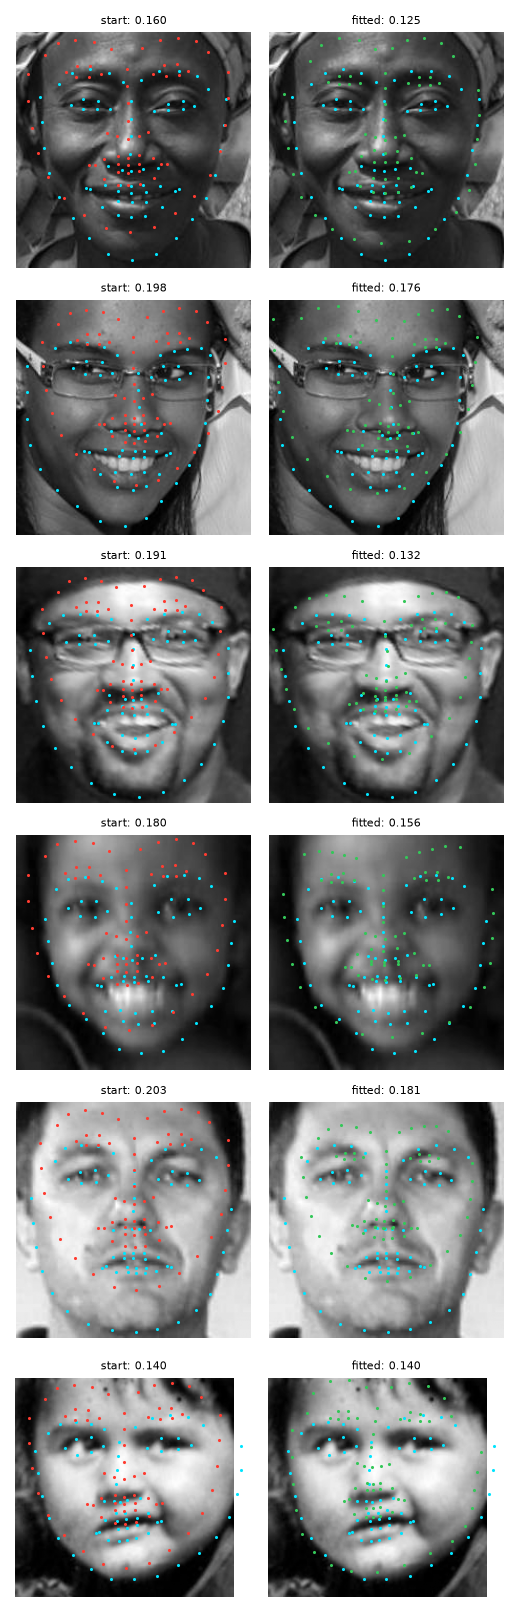
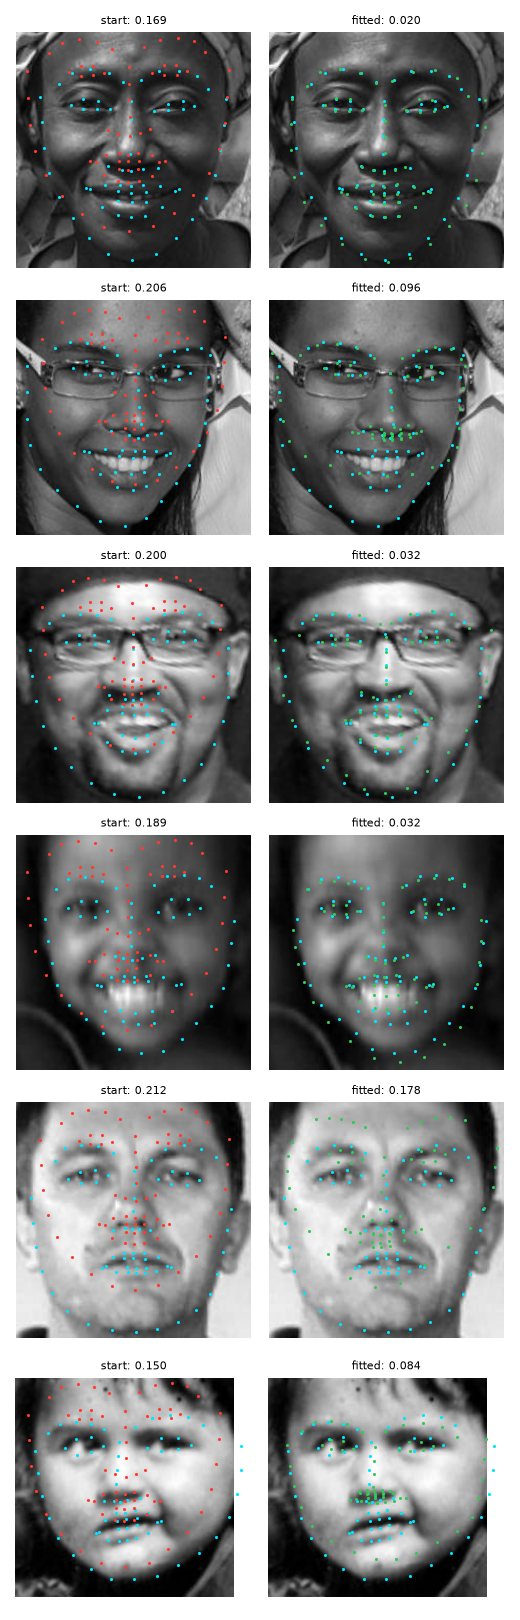
AAM, CLM and ATM examples use fast_dsift and two scales
Dense SIFT fits much better than image gradient orientations: on the 6 test faces the AAM of the Fitting page goes from
0.047 to 0.027 (from a shifted ground truth) and from 0.187 to 0.074 (from a detector box). The models are trained in batches
(batch_size) so that the 3148 images of 300-W fit in memory, and the aams-basics notebook uses two scales as the other examples.

diff --git a/docs/notebooks/menpofit/aams-basics.md b/docs/notebooks/menpofit/aams-basics.md
@@ -103,20 +103,20 @@ Deformable models, in general, and AAMs, in particular, are a one of the core co
 
 ```{code-cell}
 from menpofit.aam import HolisticAAM
-from menpo.feature import no_op
+from menpo.feature import fast_dsift
 
 # build AAM
 aam = HolisticAAM(
     training_images,
     group='PTS',
     verbose=True,
-    holistic_features=no_op, 
-    diagonal=120, 
-    scales=1
+    holistic_features=fast_dsift,
+    diagonal=120,
+    scales=(0.5, 1.0)
 )
 ```
 
-Note that here we import a feature to use from `menpo.features`. In this very basic case we actually do not want to use a feature at all - so we use the special `no_op` feature that does nothing. Features are in general required to get good fitting performance, hence the default `feature_type` is actually `igo`.
+Note that here we import a feature to use from `menpo.feature`: dense SIFT descriptors (`fast_dsift`) give much better fitting performance than raw pixels. The model has two `scales`, a coarse one and a full-resolution one, which the fitting goes through in turn (the usual choice).
 
 As first class citizens of `Menpo`, AAMs can be printed just like any other `Menpo` object (e.g. `Images` or `PointClouds)`:
 
@@ -124,7 +124,7 @@ As first class citizens of `Menpo`, AAMs can be printed just like any other `Men
 print(aam)
 ```
 
-Printing an AAM is the easiest way to retrieve its specific characteristics. For example, printing the previous AAM tells us that it was built using pixel intensities (no_op features), amongst several other things.
+Printing an AAM is the easiest way to retrieve its specific characteristics. For example, printing the previous AAM tells us that it was built using dense SIFT features (fast_dsift), amongst several other things.
 
 AAMs also define an instance method that allows us to generate novel AAM instances by applying a set of particular weights to the components of their shape and apperance models:
 

diff --git a/docs/menpofit/fitting.md b/docs/menpofit/fitting.md
@@ -32,12 +32,13 @@ For example, a Lucas-Kanade AAM fitter (`LucasKanadeAAMFitter`) assumes that you
 :tags: [remove-input]
 
 # the `aam` of the Training section, and an image to fit
-from menpo.feature import igo
+from menpo.feature import fast_dsift
 from menpofit.aam import HolisticAAM
 from menpo_docs_data import faces
 
 training_images, test_images = faces()
-aam = HolisticAAM(training_images, diagonal=150, scales=(0.5, 1.0), holistic_features=igo)
+aam = HolisticAAM(training_images, diagonal=150, scales=(0.5, 1.0), holistic_features=fast_dsift,
+                  batch_size=100)
 ```
 
 ```{code-cell} ipython3
@@ -167,9 +168,9 @@ Red is where the fit starts, green where it ends, and cyan is the ground truth:
 ```
 
 From the box of a detector (`fit_from_bb` with `menpodetect`'s OpenCV detector, whose boxes are looser than the ground truth),
-which is what you have in practice, the start is much worse and the mean error goes from {{ fitting_detector_initial }} to
-{{ fitting_detector_final }}: a model like this one moves the shape towards the face, not onto it, and the detector, the features and
-the number of iterations matter more than the amount of training data.
+which is what you have in practice, the start is much worse, and the mean error goes from {{ fitting_detector_initial }} to
+{{ fitting_detector_final }}. Most faces converge, and one does not (the fifth): the fitting is local, it finds the minimum near where
+it starts, so a start that is too far off, or a face that does not look like the training faces, can end in the wrong place.
 
 ```{figure} /_static/examples/fitting_detector.png
 :width: 60%

diff --git a/docs/menpofit/clm.md b/docs/menpofit/clm.md
@@ -55,16 +55,16 @@ training_images, test_images = faces()
 ```
 
 ```{code-cell} ipython3
-from menpo.feature import igo
+from menpo.feature import fast_dsift
 from menpofit.clm import CLM
 
 clm = CLM(training_images, group='PTS', diagonal=150, scales=(0.5, 1.0),
           patch_shape=(9, 9), context_shape=(18, 18), max_shape_components=20,
-          holistic_features=igo, verbose=True)
+          holistic_features=fast_dsift, verbose=True)
 print(clm)
 ```
 
-The correlation filters work on the features of `holistic_features`: gradient orientations (`igo`) are much better than raw pixels. The fitter takes the number of shape components to use at each scale (on a trimmed copy of the model, see [Fitting](fitting.md)):
+The correlation filters work on the features of `holistic_features`: dense SIFT descriptors (`fast_dsift`) are much better than raw pixels. The fitter takes the number of shape components to use at each scale (on a trimmed copy of the model, see [Fitting](fitting.md)):
 
 ```{code-cell} ipython3
 from menpofit.clm import GradientDescentCLMFitter, RegularisedLandmarkMeanShift

diff --git a/docs/menpofit/training.md b/docs/menpofit/training.md
@@ -89,14 +89,14 @@ training_images, _ = faces()
 
 ```{code-cell} ipython3
 from menpofit.aam import HolisticAAM
-from menpo.feature import igo
+from menpo.feature import fast_dsift
 
 aam = HolisticAAM(training_images, reference_shape=None,
                   diagonal=150, scales=(0.5, 1.0),
-                  holistic_features=igo, verbose=True)
+                  holistic_features=fast_dsift, batch_size=100, verbose=True)
 ```
 
-The `verbose` flag prints the training progress. Information about any trained model can be retrieved by:
+The `verbose` flag prints the training progress. `batch_size` trains the model in batches of images, with an incremental PCA, so that thousands of training images do not have to be in memory at once (the features of a image are several times its size). The images are best given as a `LazyList`, which `mio.import_images` returns, so that they are not loaded either. Information about any trained model can be retrieved by:
 
 ```{code-cell} ipython3
 print(aam)

diff --git a/docs/menpofit/result.md b/docs/menpofit/result.md
@@ -66,13 +66,14 @@ For example, with the `result` of the [Fitting](fitting.md) section:
 ```{code-cell} ipython3
 :tags: [remove-input]
 
-from menpo.feature import igo
+from menpo.feature import fast_dsift
 from menpofit.aam import HolisticAAM, LucasKanadeAAMFitter, WibergInverseCompositional
 from menpo_docs_data import faces
 import numpy as np
 
 training_images, test_images = faces()
-aam = HolisticAAM(training_images, diagonal=150, scales=(0.5, 1.0), holistic_features=igo)
+aam = HolisticAAM(training_images, diagonal=150, scales=(0.5, 1.0), holistic_features=fast_dsift,
+                  batch_size=100)
 fitter = LucasKanadeAAMFitter(aam, lk_algorithm_cls=WibergInverseCompositional, n_shape=[3, 20], n_appearance=[30, 150])
 image = test_images[0]
 gt_shape = image.landmarks["PTS"]

diff --git a/docs/menpofit/atm.md b/docs/menpofit/atm.md
@@ -133,11 +133,11 @@ Thus, the warp function $\mathbf{t}(\mathcal{W}(\mathbf{p}))$ simply _samples_ t
 Let's now create a `HolisticATM` using IGO features:
 ```{code-cell} ipython3
 from menpofit.atm import HolisticATM
-from menpo.feature import igo
+from menpo.feature import fast_dsift
 
 atm = HolisticATM(template, training_shapes, group='PTS',
                   diagonal=180, scales=(0.25, 1.0),
-                  holistic_features=igo, verbose=True)
+                  holistic_features=fast_dsift, verbose=True)
 ```
 and visualize it:
 ```python
